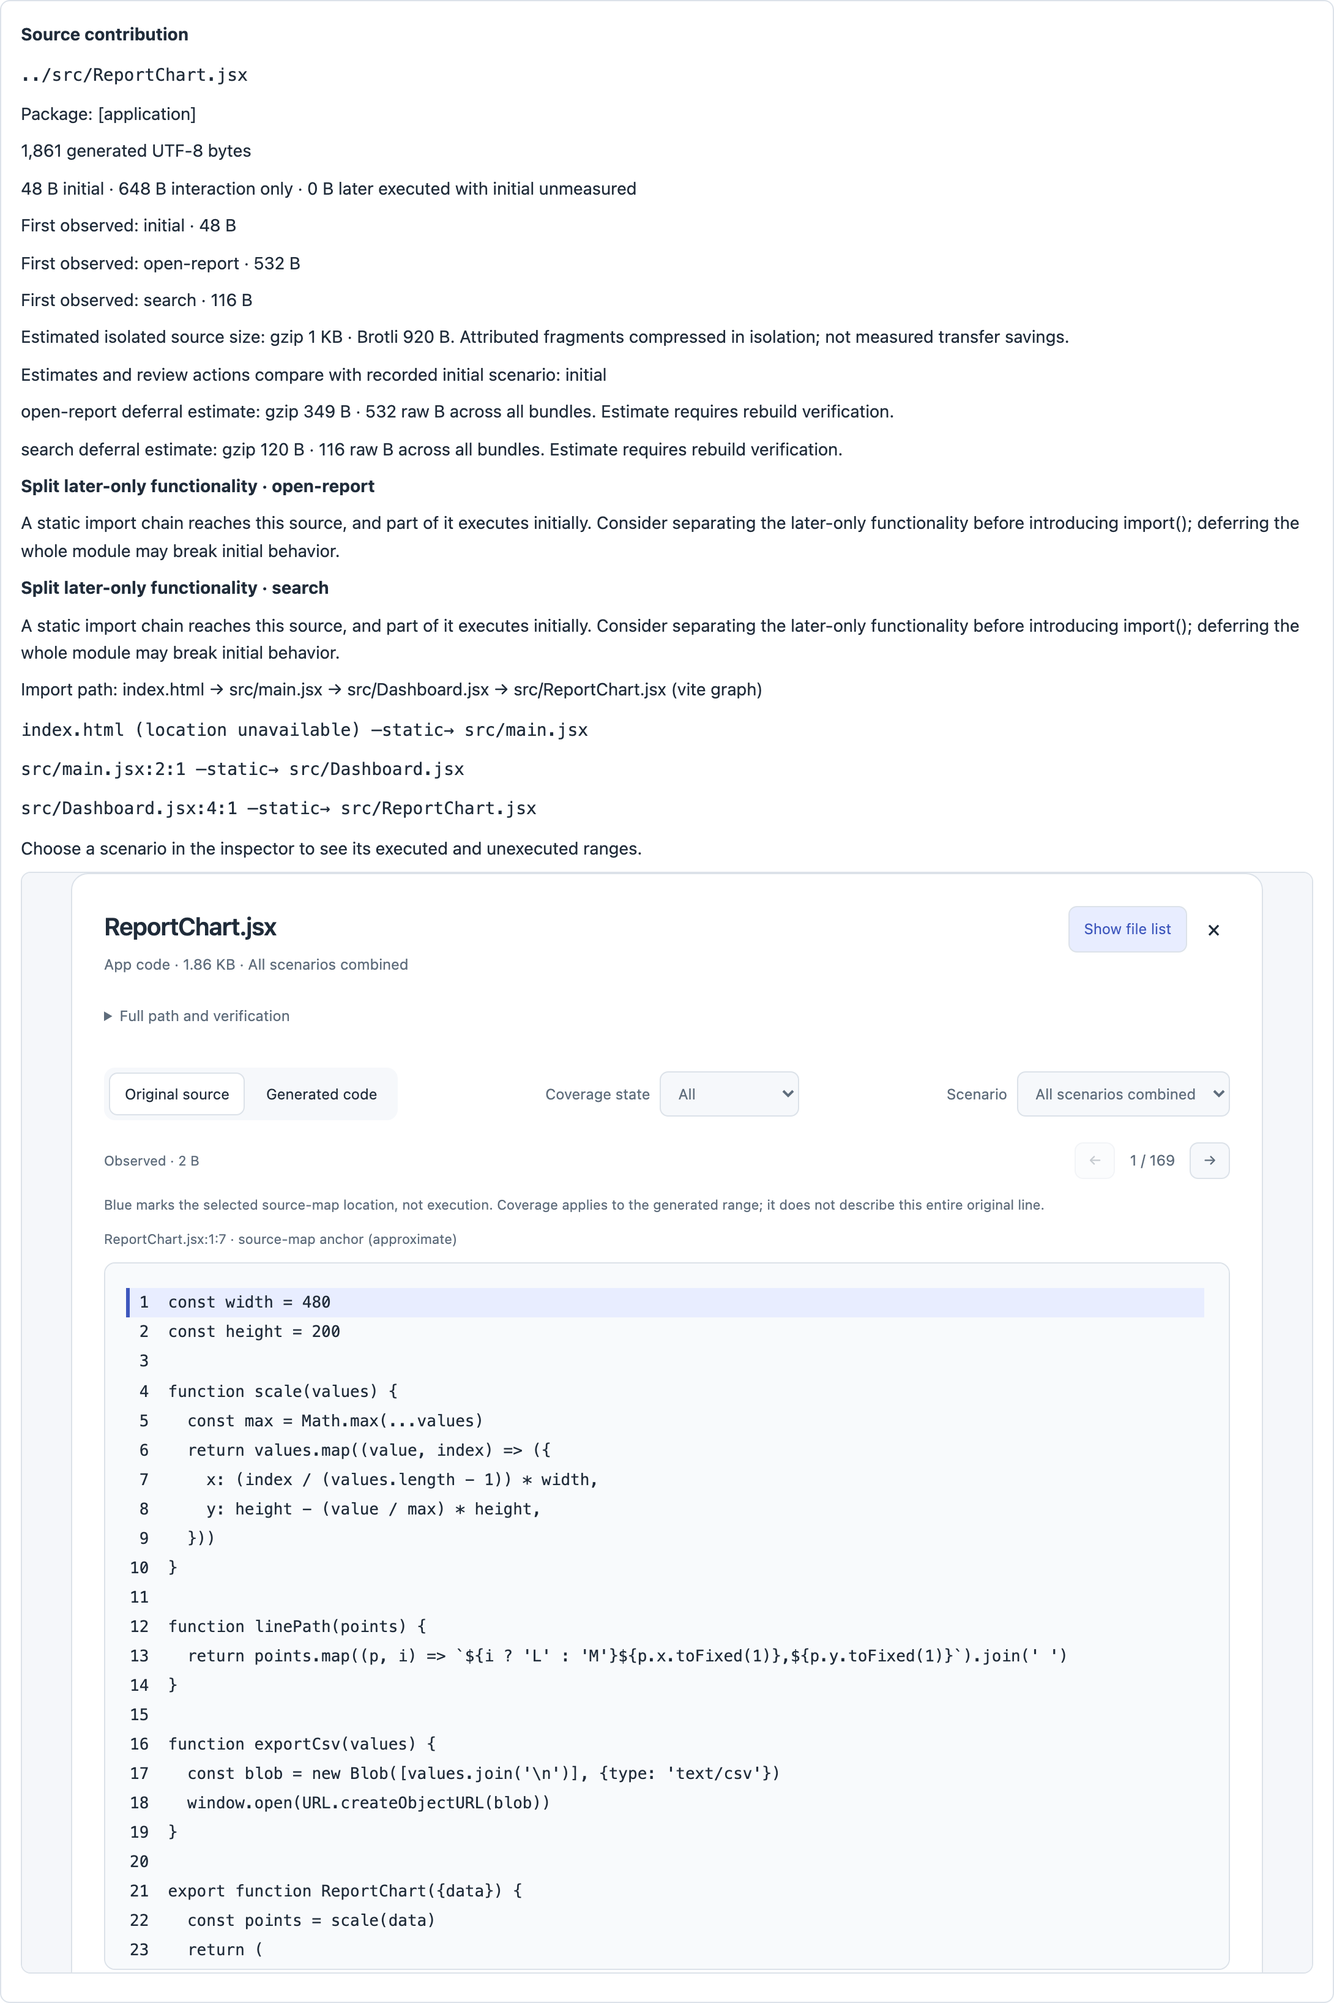
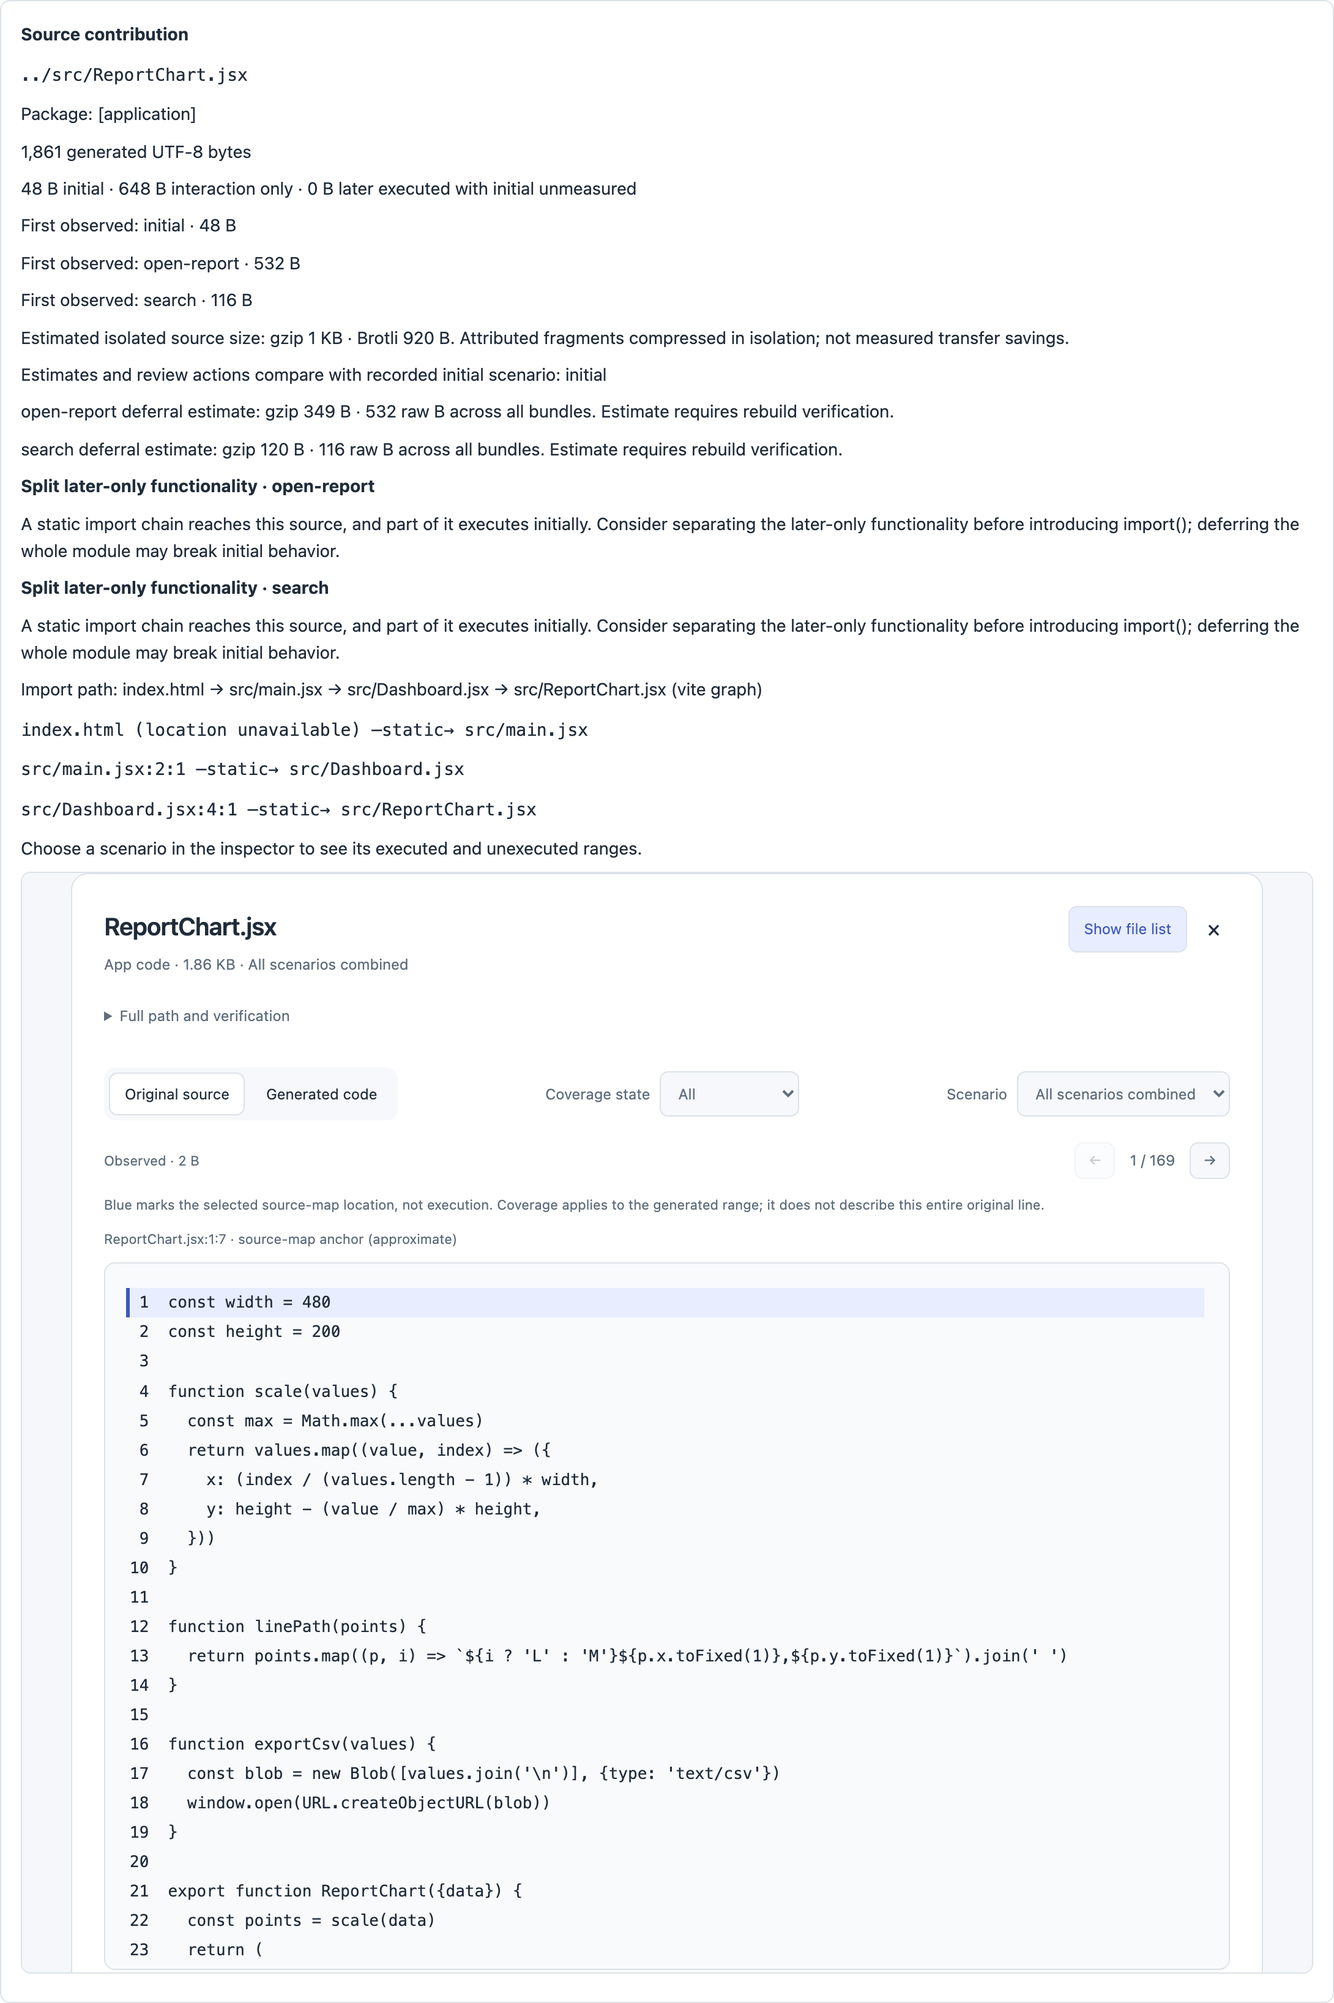
Lead the treemap report with plain findings
The report now opens with a sentence stating how much of the loaded JavaScript never ran, a list of packages that were loaded but mostly never ran, and a list of application files that run only after a specific recording. Bundles no recording loaded are hidden by default with a link to show them, secondary filters and totals move under More options, review actions start collapsed, and bundler and pnpm prefixes are removed from displayed paths. README screenshots show the new layout.

diff --git a/src/treemap.html b/src/treemap.html
@@ -24,6 +24,8 @@
         --unknown-initial: #f1df99;
         --growth: #efc3c3;
         --reduction: #bce0d7;
+        --ran: #3e9b73;
+        --never: #d9773d;
       }
       @media (prefers-color-scheme: dark) {
         :root {
@@ -40,6 +42,8 @@
           --unknown-initial: #655423;
           --growth: #713d47;
           --reduction: #27564d;
+          --ran: #5cc79a;
+          --never: #e89a68;
         }
       }
       * {
@@ -99,6 +103,84 @@
         font-size: 25px;
         margin-top: 6px;
         font-variant-numeric: tabular-nums;
+      }
+      .headline {
+        font-size: 26px;
+        line-height: 1.3;
+        letter-spacing: -0.4px;
+        font-weight: 650;
+        max-width: 32em;
+        margin: 6px 0 10px;
+      }
+      .headline mark {
+        color: inherit;
+        background: var(--unobserved);
+        border-radius: 4px;
+        padding: 0 4px;
+      }
+      .link {
+        border: 0;
+        padding: 0;
+        background: none;
+        color: var(--accent);
+        text-decoration: underline;
+      }
+      .findings {
+        display: grid;
+        grid-template-columns: repeat(auto-fit, minmax(min(100%, 340px), 1fr));
+        gap: 16px 32px;
+        margin: 28px 0 8px;
+      }
+      .findings h2 {
+        font-size: 15px;
+      }
+      .findings ol {
+        list-style: none;
+        padding: 0;
+        margin: 8px 0 0;
+      }
+      .findings li button {
+        display: grid;
+        grid-template-columns: minmax(0, 1fr) auto;
+        gap: 2px 12px;
+        width: 100%;
+        text-align: left;
+        border: 0;
+        border-top: 1px solid var(--border);
+        border-radius: 0;
+        padding: 10px 2px;
+        background: none;
+        overflow-wrap: anywhere;
+      }
+      .findings li button:hover strong {
+        text-decoration: underline;
+      }
+      .findings .value {
+        font-variant-numeric: tabular-nums;
+        white-space: nowrap;
+      }
+      .findings small {
+        grid-column: 1 / -1;
+      }
+      .meter {
+        grid-column: 1 / -1;
+        display: block;
+        height: 6px;
+        border-radius: 3px;
+        background: var(--never);
+        overflow: hidden;
+      }
+      .meter i {
+        display: block;
+        height: 100%;
+        background: var(--ran);
+      }
+      #options > summary {
+        color: var(--accent);
+        margin-top: 10px;
+      }
+      #options .controls {
+        margin-top: 10px;
       }
       .panel {
         background: var(--panel);
@@ -324,15 +406,20 @@
   <body>
     <main>
       <header>
-        <div class="eyebrow">BUNDLE TRACE</div>
-        <h1>Bundle explorer</h1>
-        <p class="muted">Find what contributes to your JavaScript bundles.</p>
+        <p class="muted">JavaScript report</p>
+        <h1 id="headline" class="headline">Bundle explorer</h1>
+        <p id="subline" class="muted"></p>
       </header>
-      <div id="stats" class="stats"></div>
-      <p class="note">
-        Generated UTF-8 bytes, before compression. Unobserved means not executed in these
-        recordings; unmeasured means no recording is available.
-      </p>
+      <div id="findings" class="findings" hidden>
+        <section id="unused-finding" hidden>
+          <h2>Loaded, but mostly never ran</h2>
+          <ol id="unused-list"></ol>
+        </section>
+        <section id="later-finding" hidden>
+          <h2>Your code that runs only after an action</h2>
+          <ol id="later-list"></ol>
+        </section>
+      </div>
       <section class="panel">
         <div class="controls">
           <input
@@ -345,6 +432,16 @@
             <option value="path">Folders</option>
             <option value="package">Packages</option>
           </select>
+        </div>
+        <details id="options">
+          <summary>More options</summary>
+          <div id="stats" class="stats"></div>
+          <p class="note">
+            Generated UTF-8 bytes, before compression, including files hidden below. Unobserved means not executed in
+            these recordings; unmeasured means no recording is available.
+          </p>
+          <div class="controls">
+          <label><input id="unloaded" type="checkbox" /> Show files not loaded in any recording</label>
           <select id="sort" aria-label="Sort entries">
             <option value="bytes">Largest first</option>
             <option value="unobservedBytes">Most unobserved</option>
@@ -359,7 +456,8 @@
             <option value="initial">Initial comparison</option>
             <option value="changes">Change from baseline</option>
           </select>
-        </div>
+          </div>
+        </details>
         <nav id="breadcrumbs" aria-label="Location"></nav>
         <div class="heading">
           <h2 id="scope"></h2>
@@ -372,10 +470,7 @@
         </div>
         <p id="phase-note" class="note"></p>
         <p id="comparison" class="note"></p>
-        <p class="note">
-          Tile area shows size; colors show coverage. Select a bundle or folder to zoom in. Use the
-          path above to go back.
-        </p>
+        <p class="note">Tile area is size. Select a tile to zoom in; the browser's back button goes up a level.</p>
         <div id="treemap" aria-label="Bundle size treemap"></div>
         <div id="file" hidden></div>
         <p id="empty" hidden>No matching sources in this location.</p>
@@ -396,7 +491,7 @@
         </div>
         <p class="note" id="filter-note"></p>
         <details id="removed" hidden><summary>Removed sources</summary><ul id="removed-list"></ul></details>
-        <details id="actions" hidden open><summary>Review actions · all selected bundles</summary><ul id="action-list"></ul></details>
+        <details id="actions" hidden><summary>Review actions · all selected bundles</summary><ul id="action-list"></ul></details>
       </section>
       <details class="panel">
         <summary id="warnings-title">Analysis details</summary>
@@ -442,6 +537,14 @@
             : (value / (value < 1e6 ? 1e3 : 1e6)).toLocaleString('en-US', {
                 maximumFractionDigits: 1,
               }) + (value < 1e6 ? ' KB' : ' MB')
+        // Display only: drop bundler URL prefixes and pnpm's store directories.
+        const shortPath = (source) =>
+          source
+            .replaceAll('\\', '/')
+            .replace(/^turbopack:\/\/\/\[project\]\//, '')
+            .replace(/^webpack:\/\/[^/]*\//, '')
+            .replace(/^.*\/node_modules\/\.pnpm\/[^/]+\/node_modules\//, 'node_modules/')
+        const loaded = (row) => row.bytes - row.unmeasuredBytes
         const element = (tag, text) => {
           const node = document.createElement(tag)
           if (text !== undefined) node.textContent = text
@@ -484,8 +587,8 @@
               const source = selectedSources.get(original.source) || original
               const parts =
                 $('group').value === 'package'
-                  ? [source.package, source.source]
-                  : source.source.replaceAll('\\', '/').split('/').filter(Boolean)
+                  ? [source.package, shortPath(source.source)]
+                  : shortPath(source.source).split('/').filter(Boolean)
               if ($('group').value === 'path' && parts[0] === '..') {
                 let prefix = ''
                 while (parts[0] === '..') { prefix += '../'; parts.shift() }
@@ -539,6 +642,7 @@
           focus = root
         }
         function filtered(node) {
+          if (node.kind === 'bundle' && report.scenarios.length && !$('unloaded').checked && !loaded(node)) return null
           if (node.kind === 'file')
             return (!$('mapped').checked || node.source !== '[unmapped]') &&
               node.search.includes($('search').value.toLowerCase())
@@ -698,7 +802,7 @@
             label.append(icon, document.createTextNode(text))
             return label
           }))
-          $('phase-note').textContent = phases ? 'First observed in the declared order: ' + report.scenarios.join(' → ') + '. Yellow bytes have missing earlier measurements; their first execution is unknown. This order compares recordings, not wall-clock timestamps.' :
+          $('phase-note').textContent = phases ? 'Color shows the first recording that ran each byte. Yellow: an earlier recording did not load that file, so its first run is unknown.' :
             initialView ? 'Initial: ' + $('initial').value + '. Purple bytes are deferral candidates in scripts measured during initial. Yellow bytes have no initial recording. Execution evidence does not prove loading time or that removal is safe.' :
             $('color').value === 'initial' ? 'Choose an initial scenario to compare execution phases.' : ''
           $('comparison').textContent = changes ? 'Baseline: ' + signed(changes.totals.delta.bytes) + ' generated B · ' + signed(changes.totals.delta.unobservedBytes) + ' unobserved B. Source deltas aggregate all bundles; moved sources keep their identity. Folder colors indicate contained changes.' :
@@ -799,6 +903,89 @@
               ? 'Search and mapped-only filtering affect this view. Overall totals and CI budgets remain unchanged.'
               : 'Every entry is available in the table, including tiles too small for a label.'
         }
+        function finding(list, name, value, detail, share, query) {
+          const item = element('li'), button = element('button'), meter = element('span'), fill = element('i')
+          const title = element('strong', name), amount = element('span', value)
+          amount.className = 'value'
+          meter.className = 'meter'
+          fill.style.width = share === undefined ? '0' : share * 100 + '%'
+          meter.append(fill)
+          button.append(title, amount, ...(share === undefined ? [] : [meter]), element('small', detail))
+          button.onclick = () => {
+            $('search').value = query
+            render()
+            $('treemap').scrollIntoView({block: 'start'})
+          }
+          item.append(button)
+          $(list).append(item)
+        }
+        function renderSummary() {
+          const total = report.totals
+          const loadedBytes = loaded(total)
+          const unloaded = report.bundles.filter((bundle) => !(bundle.bytes - bundle.unmeasuredBytes))
+          if (!report.scenarios.length || !loadedBytes) {
+            $('headline').textContent = size(total.bytes) + ' of JavaScript, with no execution recordings'
+            $('subline').textContent = 'Add coverage recordings to see which code runs.'
+            return
+          }
+          const percent = Math.round((total.unobservedBytes / loadedBytes) * 100)
+          const never = element('mark', size(total.unobservedBytes) + ' (' + percent + '%)')
+          $('headline').replaceChildren(
+            'These recordings loaded ' + size(loadedBytes) + ' of JavaScript. ', never, ' of it never ran.',
+          )
+          $('subline').replaceChildren('Recordings: ' + report.scenarios.join(' → ') + '.')
+          if (unloaded.length) {
+            const toggle = element('button', 'Show them')
+            toggle.className = 'link'
+            toggle.onclick = () => {
+              $('unloaded').checked = true
+              render()
+            }
+            $('subline').append(' ' + unloaded.length + ' other files (' +
+              size(unloaded.reduce((sum, bundle) => sum + bundle.bytes, 0)) +
+              ') were never loaded and are hidden below. ', toggle)
+          }
+          // Packages people can act on: mostly idle once loaded.
+          const packages = new Map()
+          for (const bundle of report.bundles) {
+            for (const source of bundle.sources) {
+              const row = packages.get(source.package) || {name: source.package, bytes: 0, observedBytes: 0, unobservedBytes: 0, unmeasuredBytes: 0}
+              for (const key of keys) row[key] += source[key]
+              packages.set(source.package, row)
+            }
+          }
+          const idle = [...packages.values()]
+            .filter((row) => row.name !== '[unmapped]' && loaded(row) >= 1000 && row.unobservedBytes >= 1000 &&
+              row.observedBytes / loaded(row) < 0.5)
+            .sort((a, b) => b.unobservedBytes - a.unobservedBytes)
+            .slice(0, 6)
+          for (const row of idle) {
+            const ran = row.observedBytes / loaded(row)
+            finding('unused-list', row.name === '[application]' ? 'Your own code' : row.name,
+              Math.round((1 - ran) * 100) + '% never ran',
+              size(loaded(row)) + ' loaded, ' + size(row.observedBytes) + ' ran', ran,
+              row.name === '[application]' ? '' : row.name)
+          }
+          $('unused-finding').hidden = !idle.length
+          // Application sources whose bytes first ran in a later recording.
+          const later = new Map()
+          for (const scenario of report.scenarioReports || []) {
+            for (const row of scenario.interactionCandidates || []) {
+              if (row.package !== '[application]' || !row.interactionOnlyBytes) continue
+              const current = later.get(row.source)
+              if (!current || current.bytes < row.interactionOnlyBytes)
+                later.set(row.source, {scenario: scenario.scenario, bytes: row.interactionOnlyBytes})
+            }
+          }
+          const rows = [...later].sort((a, b) => b[1].bytes - a[1].bytes).slice(0, 6)
+          for (const [source, row] of rows) {
+            const path = shortPath(source)
+            finding('later-list', path.split('/').pop(), size(row.bytes),
+              'Runs only in "' + row.scenario + '": ' + path, undefined, path.split('/').pop())
+          }
+          $('later-finding').hidden = !rows.length
+          $('findings').hidden = !idle.length && !rows.length
+        }
         function renderStats(totals) {
           $('stats').replaceChildren()
           for (const [i, key] of keys.entries()) {
@@ -816,7 +1003,7 @@
         $('actions').querySelector('summary').textContent = 'Review actions · all selected bundles' +
           (report.initialScenario ? ' · initial: ' + report.initialScenario : '')
         for (const action of report.recommendations.slice(0, 20)) {
-          const item = element('li'), button = element('button', action.source)
+          const item = element('li'), button = element('button', shortPath(action.source))
           button.onclick = () => {
             const find = (node) => node.kind === 'file' && node.source === action.source ? node :
               [...node.children.values()].map(find).find(Boolean)
@@ -849,6 +1036,7 @@
         if (report.budgetFailures.length) $('warnings-title').parentElement.open = true
         $('search').oninput = render
         $('mapped').onchange = render
+        $('unloaded').onchange = render
         $('sort').onchange = render
         $('group').onchange = () => {
           build()
@@ -866,6 +1054,7 @@
           cancelAnimationFrame(frame)
           frame = requestAnimationFrame(render)
         })
+        renderSummary()
         build()
         render()
       })()

diff --git a/README.md b/README.md
@@ -146,11 +146,15 @@ Scenario search: 54068 observed | 168484 unobserved | 0 unmeasured
          893          286          607            0  [unmapped]
 ```
 
-Open `artifacts/report.html` in a browser (it works offline). Tile area is generated bytes; color is the first scenario that executed those bytes: green for the initial load, purple for "open-report", pink for "search", and orange for code that no scenario executed. Grouped by package, most of this bundle is `react-dom` code that none of the three scenarios executed:
+Open `artifacts/report.html` in a browser (it works offline). The top of the report says what matters in plain sentences: how much of the loaded JavaScript never ran, which packages were loaded but mostly never ran, and which of your own files run only after a specific action. Select an entry to find it in the treemap.
+
+![Report summary: 164.9 KB of 222.6 KB never ran; react-dom and react are 75% unused; ReportChart.jsx runs only after "open-report"](docs/images/summary.png)
+
+Below the summary, files that no recording loaded are hidden (the summary offers to show them), and filters live under "More options". Tile area is generated bytes; color is the first scenario that executed those bytes: green for the initial load, purple for "open-report", pink for "search", and orange for code that no scenario executed. Grouped by package, most of this bundle is `react-dom` code that none of the three scenarios executed:
 
 ![Treemap of the demo bundle grouped by package, colored by first observed scenario](docs/images/treemap.png)
 
-**5. Follow a review action.** "Review actions" lists sources whose bytes first run after the initial load. Selecting `ReportChart.jsx` shows that 48 B of it run on the initial load (its module body) and 532 B run only in "open-report", the static import chain `main.jsx → Dashboard.jsx:4:1 → ReportChart.jsx` that pulls it into the initial bundle, isolated gzip estimates, and a code inspector per scenario:
+**5. Follow a review action.** "Review actions" (collapsed at the bottom) lists sources whose bytes first run after the initial load. Selecting `ReportChart.jsx` shows that 48 B of it run on the initial load (its module body) and 532 B run only in "open-report", the static import chain `main.jsx → Dashboard.jsx:4:1 → ReportChart.jsx` that pulls it into the initial bundle, isolated gzip estimates, and a code inspector per scenario:
 
 ![Source detail for ReportChart.jsx with its import chain, review action, and code inspector](docs/images/source-detail.png)
 
